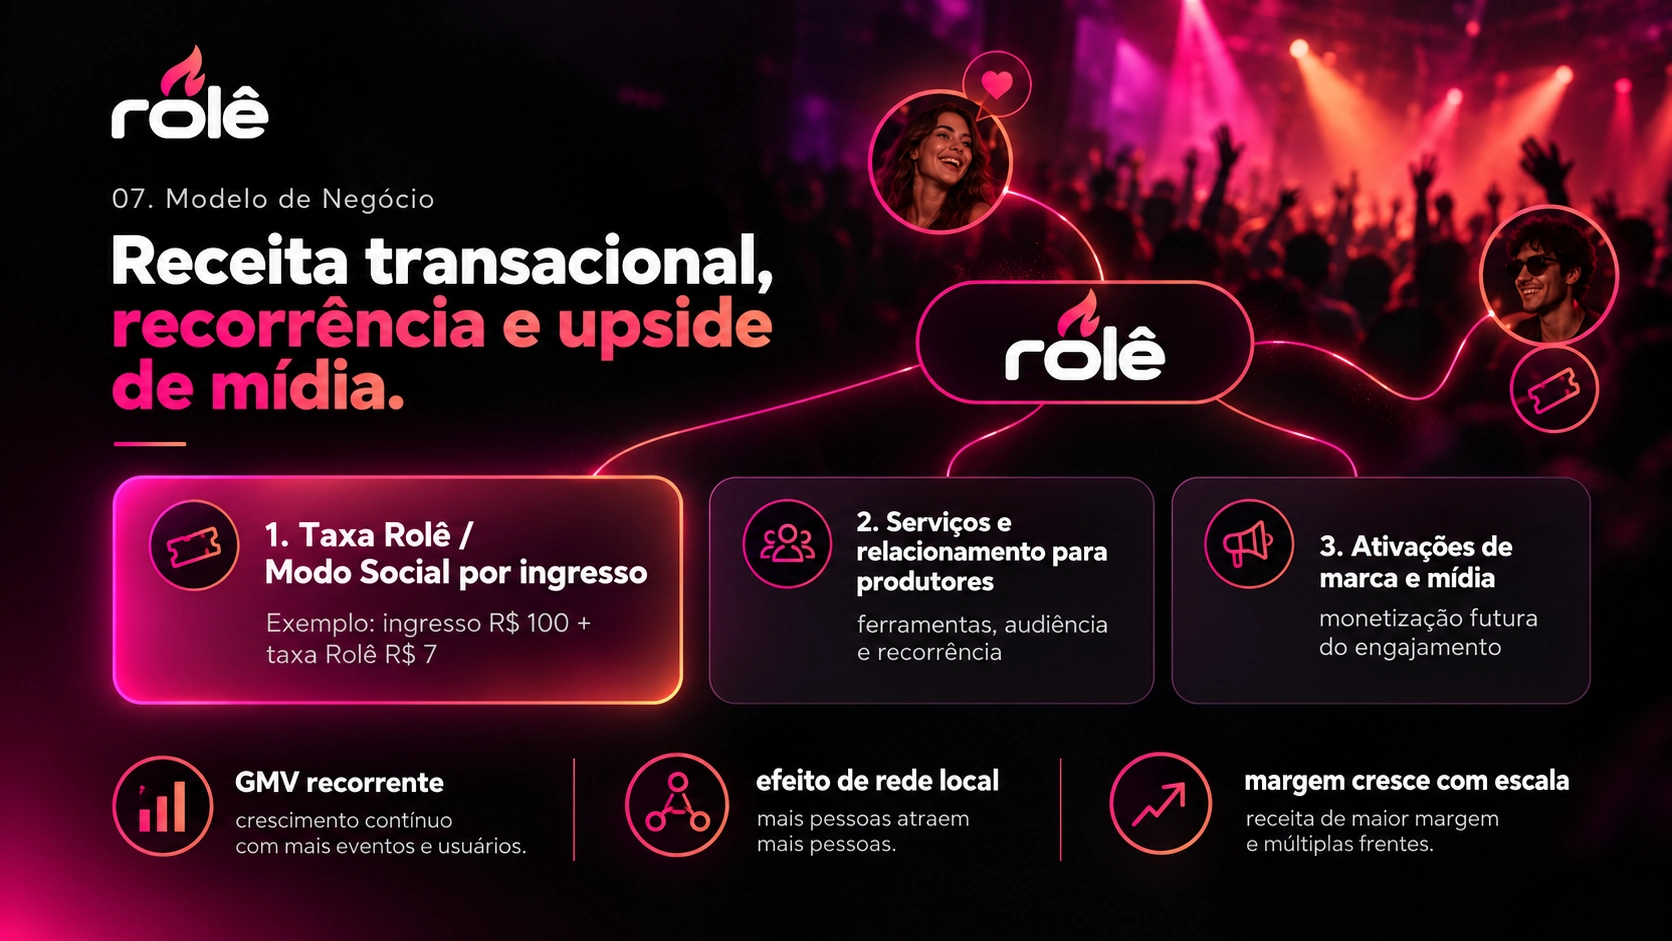
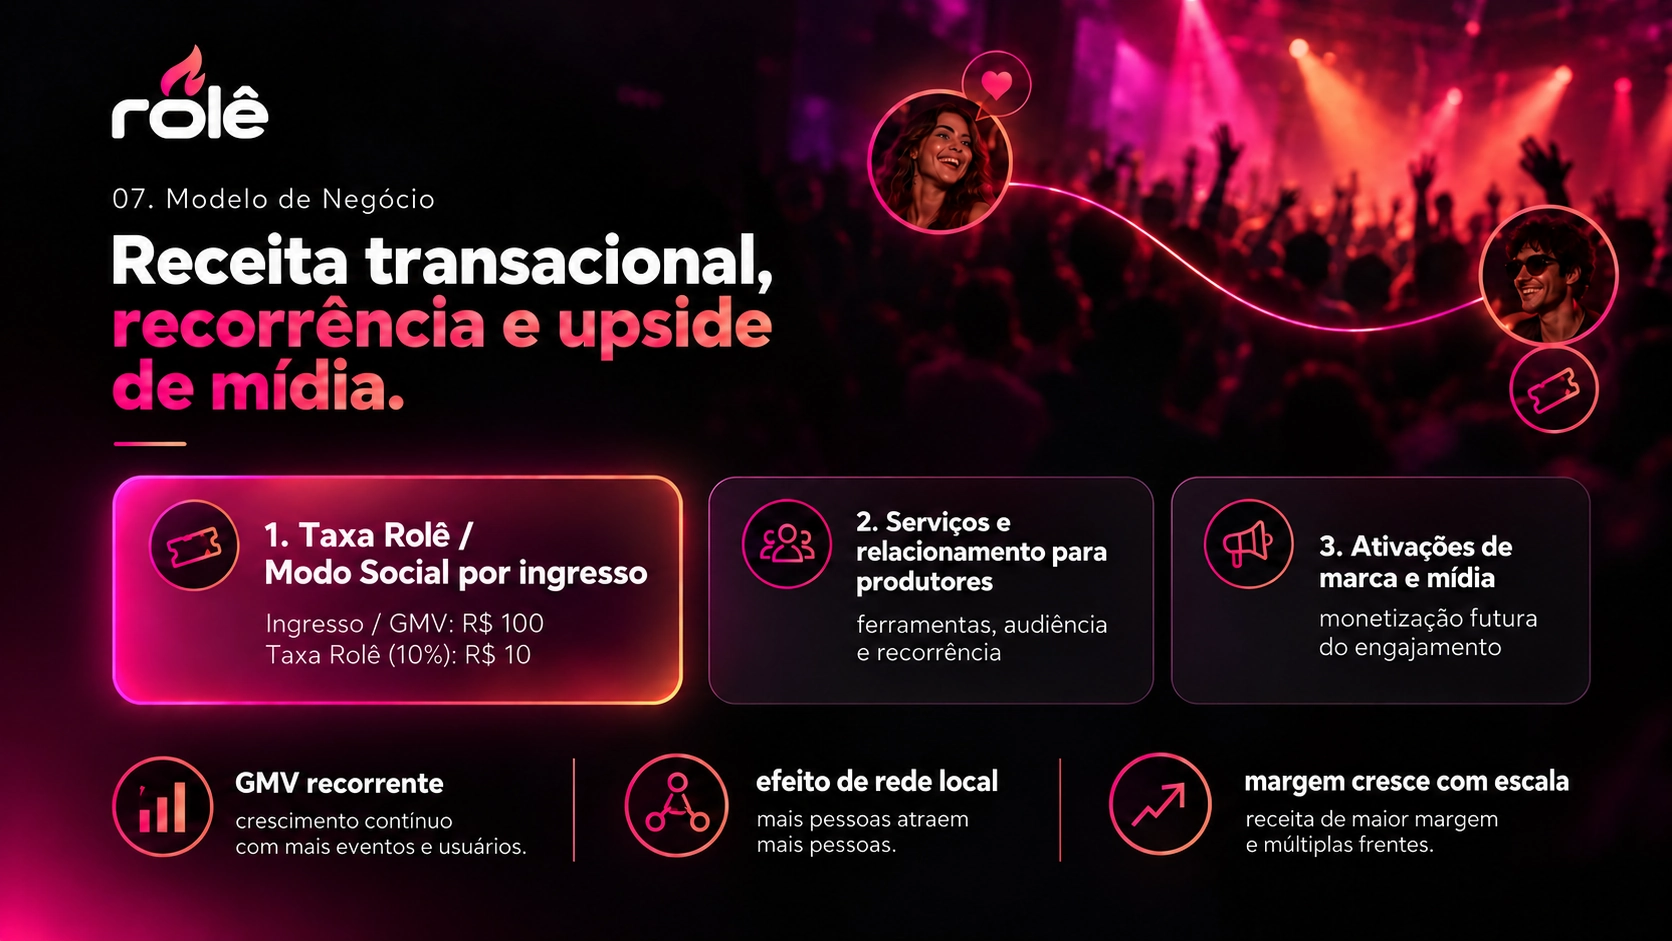
fix text pitch investiment

diff --git a/pitch/investment/finance-chart.js b/pitch/investment/finance-chart.js
@@ -1,0 +1,127 @@
+// Fonte: Role_Orcamento_18m_Growth_100_Hosts.xlsx, Caixa Rolê!A1:N19.
+// Despesas operacionais = Receita Rolê (coluna C) - EBITDA antes de CAPEX (coluna N).
+const projection = [
+  { month: 'Jan/27', revenue: 1564, ebitda: -27466.8608015169 },
+  { month: 'Fev/27', revenue: 3236.8, ebitda: -26841.1401698876 },
+  { month: 'Mar/27', revenue: 5854.8, ebitda: -26427.7756685998 },
+  { month: 'Abr/27', revenue: 7772.4, ebitda: -33873.896282217 },
+  { month: 'Mai/27', revenue: 11580.4, ebitda: -42730.5374772148 },
+  { month: 'Jun/27', revenue: 17442, ebitda: -29684.1754642225 },
+  { month: 'Jul/27', revenue: 25520.4, ebitda: -52618.0973124745 },
+  { month: 'Ago/27', revenue: 35006.4, ebitda: -36610.055470022 },
+  { month: 'Set/27', revenue: 47980.8, ebitda: -42721.6597171115 },
+  { month: 'Out/27', revenue: 62634.8, ebitda: -30937.2513255846 },
+  { month: 'Nov/27', revenue: 82212, ebitda: -32758.8707949203 },
+  { month: 'Dez/27', revenue: 103795.2, ebitda: -3795.0635316303 },
+  { month: 'Jan/28', revenue: 128574.4, ebitda: -23237.9960786632 },
+  { month: 'Fev/28', revenue: 155577.2, ebitda: 14868.9289184336 },
+  { month: 'Mar/28', revenue: 183722.4, ebitda: 18813.9482381885 },
+  { month: 'Abr/28', revenue: 210630, ebitda: 28132.9769873277 },
+  { month: 'Mai/28', revenue: 238571.2, ebitda: 46951.8766126127 },
+  { month: 'Jun/28', revenue: 270034.8, ebitda: 72163.8348592263 },
+];
+
+const COLORS = {
+  background: '#0b0d0e',
+  border: '#25282a',
+  grid: '#292d30',
+  text: '#f5f3f5',
+  muted: '#b8b6ba',
+  revenue: '#ff3185',
+  expenses: '#505356',
+  ebitda: '#ff8958',
+};
+
+const formatMil = value => new Intl.NumberFormat('pt-BR', {
+  maximumFractionDigits: 0,
+}).format(value);
+
+export function renderFinanceChart(target) {
+  if (!target) return;
+
+  const plot = { left: 90, right: 960, top: 465, bottom: 579 };
+  const minimum = -60;
+  const maximum = 300;
+  const y = value => plot.bottom - ((value - minimum) / (maximum - minimum)) * (plot.bottom - plot.top);
+  const step = (plot.right - plot.left) / projection.length;
+  const x = index => plot.left + step * (index + 0.5);
+  const zero = y(0);
+  const ticks = [-50, 0, 100, 200, 300];
+
+  const grid = ticks.map(value => {
+    const lineY = y(value);
+    const stroke = value === 0 ? '#7d8184' : COLORS.grid;
+    const width = value === 0 ? 1.15 : 0.8;
+    return `<g>
+      <line x1="${plot.left}" y1="${lineY}" x2="${plot.right}" y2="${lineY}" stroke="${stroke}" stroke-width="${width}" />
+      <text x="78" y="${lineY + 3.5}" text-anchor="end" class="axis-label">${value}</text>
+    </g>`;
+  }).join('');
+
+  const bars = projection.map((point, index) => {
+    const center = x(index);
+    const revenue = point.revenue / 1000;
+    const expenses = (point.revenue - point.ebitda) / 1000;
+    const revenueTop = y(revenue);
+    const expenseTop = y(expenses);
+    const highlighted = point.month === 'Fev/28';
+    return `<g>
+      <rect x="${center - 10}" y="${revenueTop}" width="9" height="${Math.max(1, zero - revenueTop)}" rx="1.5" fill="${COLORS.revenue}" />
+      <rect x="${center + 1}" y="${expenseTop}" width="9" height="${Math.max(1, zero - expenseTop)}" rx="1.5" fill="${COLORS.expenses}" />
+      <text x="${center}" y="626" text-anchor="middle" class="month-label${highlighted ? ' month-label--breakeven' : ''}">${point.month}</text>
+    </g>`;
+  }).join('');
+
+  const path = projection.map((point, index) => `${index === 0 ? 'M' : 'L'} ${x(index)} ${y(point.ebitda / 1000)}`).join(' ');
+  const points = projection.map((point, index) => {
+    const isBreakeven = point.month === 'Fev/28';
+    return `<circle cx="${x(index)}" cy="${y(point.ebitda / 1000)}" r="${isBreakeven ? 4.1 : 3.3}" fill="${isBreakeven ? COLORS.ebitda : '#ffe3d3'}" stroke="${COLORS.ebitda}" stroke-width="2" />`;
+  }).join('');
+  const last = projection.at(-1);
+
+  target.innerHTML = `<svg viewBox="0 0 1018 768" role="img" aria-labelledby="finance-chart-title finance-chart-description" xmlns="http://www.w3.org/2000/svg">
+    <title id="finance-chart-title">Evolução mensal de receita, despesas operacionais e EBITDA</title>
+    <desc id="finance-chart-description">De janeiro de 2027 a junho de 2028, a receita ultrapassa as despesas operacionais em fevereiro de 2028. O EBITDA passa de menos 23,2 mil reais em janeiro de 2028 para mais 14,9 mil em fevereiro, e chega a 72,2 mil em junho de 2028.</desc>
+    <defs>
+      <linearGradient id="finance-card-fill" x1="0" y1="0" x2="1" y2="1">
+        <stop offset="0" stop-color="#0b0e0f" />
+        <stop offset="1" stop-color="#111012" />
+      </linearGradient>
+    </defs>
+    <rect x="35" y="406" width="951" height="247" rx="15" fill="url(#finance-card-fill)" stroke="${COLORS.border}" />
+
+    <text x="56" y="434" class="chart-heading">EVOLUÇÃO MENSAL (R$ mil)</text>
+    <g class="legend">
+      <rect x="383" y="426" width="16" height="9" rx="3" fill="${COLORS.revenue}" />
+      <text x="408" y="434">Receita Rolê</text>
+      <rect x="497" y="426" width="16" height="9" rx="3" fill="${COLORS.expenses}" />
+      <text x="522" y="434">Despesas operacionais</text>
+      <path d="M 672 430.5 h 15" fill="none" stroke="${COLORS.ebitda}" stroke-width="3.5" stroke-linecap="round" />
+      <circle cx="679.5" cy="430.5" r="3" fill="${COLORS.ebitda}" />
+      <text x="699" y="434">EBITDA</text>
+    </g>
+
+    ${grid}
+    ${bars}
+    <path d="${path}" fill="none" stroke="${COLORS.ebitda}" stroke-width="3.5" stroke-linejoin="round" stroke-linecap="round" />
+    ${points}
+
+    <g aria-hidden="true">
+      <rect x="863" y="417" width="111" height="43" rx="8" fill="#100d12" stroke="#8e2855" />
+      <text x="918.5" y="435" text-anchor="middle" class="callout-value">R$ ${formatMil(last.revenue / 1000)} mil</text>
+      <text x="918.5" y="451" text-anchor="middle" class="callout-label">receita/mês</text>
+      <path d="M 934 460 L 946 460 L 940 467 Z" fill="#100d12" stroke="#8e2855" stroke-linejoin="round" />
+    </g>
+
+    <style>
+      text { font-family: Inter, ui-sans-serif, system-ui, -apple-system, BlinkMacSystemFont, "Segoe UI", sans-serif; }
+      .chart-heading { fill: ${COLORS.text}; font-size: 13px; font-weight: 700; letter-spacing: 2.6px; }
+      .legend { fill: ${COLORS.text}; font-size: 10px; font-weight: 500; }
+      .axis-label { fill: ${COLORS.muted}; font-size: 10px; font-variant-numeric: tabular-nums; }
+      .month-label { fill: ${COLORS.text}; font-size: 9.3px; font-weight: 450; font-variant-numeric: tabular-nums; }
+      .month-label--breakeven { fill: ${COLORS.revenue}; font-size: 9.6px; font-weight: 750; }
+      .callout-value { fill: ${COLORS.revenue}; font-size: 14px; font-weight: 750; }
+      .callout-label { fill: #ffabc7; font-size: 10.5px; font-weight: 550; }
+    </style>
+  </svg>`;
+}

diff --git a/pitch/investment/index.html b/pitch/investment/index.html
@@ -52,13 +52,13 @@
 
     <section class="slide" id="slide-7" data-slide="7" aria-roledescription="slide" aria-label="7 de 12: Modelo de negócio" aria-hidden="true" inert>
       <div class="slide-canvas" style="--slide-ratio: 1.776833">
-        <img class="reference-art" src="./assets/slide-07.webp" alt="Receita transacional por ingresso, serviços para produtores e ativações de marca." width="1672" height="941" loading="lazy" decoding="async" draggable="false" />
+        <img class="reference-art" src="./assets/slide-07.webp" alt="Taxa Rolê de 10% sobre o GMV do ingresso: em um ingresso de R$ 100, a taxa é R$ 10. O slide também apresenta serviços para produtores e ativações de marca." width="1672" height="941" loading="lazy" decoding="async" draggable="false" />
       </div>
     </section>
 
     <section class="slide" id="slide-8" data-slide="8" aria-roledescription="slide" aria-label="8 de 12: Competição" aria-hidden="true" inert>
       <div class="slide-canvas" style="--slide-ratio: 1.776833">
-        <img class="reference-art" src="./assets/slide-08.webp" alt="Comparativo de ticketing, descoberta social, público confirmado, matches e ferramentas para produtores." width="1672" height="941" loading="lazy" decoding="async" draggable="false" />
+        <img class="reference-art" src="./assets/slide-08.webp" alt="Comparativo de ticketing, descoberta social, público confirmado, matches e ferramentas para hosts. Rolê, Sympla, Zig e Ingresse oferecem ferramentas para hosts." width="1672" height="941" loading="lazy" decoding="async" draggable="false" />
       </div>
     </section>
 
@@ -70,18 +70,21 @@
 
     <section class="slide" id="slide-10" data-slide="10" aria-roledescription="slide" aria-label="10 de 12: Equipe" aria-hidden="true" inert>
       <div class="slide-canvas" style="--slide-ratio: 1.776833">
-        <img class="reference-art" src="./assets/slide-10.webp" alt="Apresentação dos fundadores e suas experiências em produto, tecnologia e mercado." width="1672" height="941" loading="lazy" decoding="async" draggable="false" />
+        <img class="reference-art" src="./assets/slide-10.webp" alt="Apresentação dos fundadores. Marcos Barreto foi VP da Associação Baiana de Startups em 2023 e 2024; Jaevillen Oliveira é CTO." width="1672" height="941" loading="lazy" decoding="async" draggable="false" />
       </div>
     </section>
 
     <section class="slide" id="slide-11" data-slide="11" aria-roledescription="slide" aria-label="11 de 12: Projeções financeiras" aria-hidden="true" inert>
-      <div class="slide-canvas" style="--slide-ratio: 1.325521">
-        <img class="reference-art" src="./assets/slide-11.webp" alt="Projeções de 18 meses: GMV de R$ 24,6 milhões, receita de R$ 3,7 milhões, break-even em fevereiro de 2028 e caixa final de R$ 254 mil." width="1018" height="768" loading="lazy" decoding="async" draggable="false" />
+      <div class="slide-canvas slide-canvas-portrait-art" style="--slide-ratio: 1.777778">
+        <div class="slide-11-art">
+          <img class="reference-art" src="./assets/slide-11.webp" alt="Composição visual do slide com projeções financeiras para 18 meses." width="1018" height="768" loading="lazy" decoding="async" draggable="false" />
+          <div class="finance-chart-host" data-finance-chart></div>
+        </div>
       </div>
     </section>
 
     <section class="slide" id="slide-12" data-slide="12" aria-roledescription="slide" aria-label="12 de 12: O pedido" aria-hidden="true" inert>
-      <div class="slide-canvas" style="--slide-ratio: 1.325521">
+      <div class="slide-canvas slide-canvas-portrait-art" style="--slide-ratio: 1.777778">
         <img class="reference-art" src="./assets/slide-12.webp" alt="Captação de R$ 450 mil por 15% de equity, com alocação do capital e marcos para os próximos 18 meses." width="1018" height="768" loading="lazy" decoding="async" draggable="false" />
       </div>
     </section>

diff --git a/pitch/investment/pitch.css b/pitch/investment/pitch.css
@@ -48,6 +48,35 @@ button { font: inherit; }
   background: #050407;
 }
 .reference-art { display: block; width: 100%; height: 100%; object-fit: contain; object-position: center; }
+.slide-canvas-portrait-art {
+  display: grid;
+  place-items: center;
+  background: linear-gradient(90deg, #030708 0%, #080a0b 67%, #140a0e 100%);
+}
+#slide-11 .reference-art, #slide-12 .reference-art {
+  width: auto;
+  height: 100%;
+  max-width: 100%;
+}
+#slide-11 .slide-11-art {
+  position: relative;
+  width: auto;
+  height: 100%;
+  max-width: 100%;
+  aspect-ratio: 1018 / 768;
+}
+#slide-11 .slide-11-art .reference-art { width: 100%; }
+.finance-chart-host {
+  position: absolute;
+  inset: 0;
+  pointer-events: none;
+}
+.finance-chart-host svg { display: block; width: 100%; height: 100%; }
+#slide-12 .slide-canvas-portrait-art {
+  background:
+    radial-gradient(ellipse at 76% 8%, rgb(83 12 36 / 30%), transparent 48%),
+    linear-gradient(90deg, #030809 0%, #080a0b 64%, #18090d 100%);
+}
 
 .deck-controls {
   position: fixed;

diff --git a/pitch/investment/pitch.js b/pitch/investment/pitch.js
@@ -1,3 +1,5 @@
+import { renderFinanceChart } from './finance-chart.js';
+
 const slides = [...document.querySelectorAll('[data-slide]')];
 const pageButtons = [...document.querySelectorAll('[data-go]')];
 const previousButton = document.querySelector('[data-previous]');
@@ -7,6 +9,8 @@ const progress = document.querySelector('.deck-progress');
 const progressFill = document.querySelector('[data-progress-fill]');
 let current = 0;
 let pointerStart = null;
+
+renderFinanceChart(document.querySelector('[data-finance-chart]'));
 
 function showSlide(index, { updateHash = true } = {}) {
   current = Math.max(0, Math.min(slides.length - 1, index));

diff --git a/design-qa.md b/design-qa.md
@@ -31,8 +31,13 @@
 
 **Regressão corrigida**
 
-- Os slides 1–10 agora exibem cada composição de referência completa, sem recortar os mockups, redesenhar seus textos ou sobrepor elementos HTML.
-- Os slides 11 e 12 usam os dois painéis completos da referência financeira mais recente. O arquivo composto foi separado somente no divisor central.
+- Os slides 1–10 exibem as composições completas; no slide 7, atualizei apenas o exemplo da taxa conforme a nova regra de GMV.
+- O exemplo do slide 7 informa “Ingresso / GMV: R$ 100” e “Taxa Rolê (10%): R$ 10”.
+- No slide 7, removi o hub oval, o logo nele e suas conexões aos cards e retratos; uma linha curva agora liga diretamente os retratos do homem e da mulher.
+- No slide 8, a linha “Ferramentas para hosts” marca Rolê, Sympla, Zig e Ingresse como disponíveis.
+- No slide 10, corrigi o período da vice-presidência na Associação Baiana de Startups para 2023–2024.
+- Os slides 11 e 12 usam canvas 16:9. Cada painel de referência continua inteiro e centralizado; as faixas laterais usam fundo escuro em degradê para preservar a arte 4:3 sem esticar nem cortar seu conteúdo.
+- No slide 11, redesenhei o gráfico com os valores mensais de `Caixa Rolê!A1:N19`. Receita e despesas se cruzam em fev/28; a série exibida vai de jan/27 a jun/28.
 - Os controles continuam fora da área dos slides; navegação e numeração permanecem disponíveis.
 
 | Slide | Composição revisada |
@@ -53,9 +58,11 @@
 **Verificação visual e funcional**
 
 - Comparação lado a lado de referência e captura final para os 12 slides em `/tmp/role-pitch-qa/compare-1.png` até `compare-4.png`.
-- Chromium local em desktop de 1672 × 941 px: slides 1–10 preservam a proporção de 1672 × 941; slides 11–12 preservam 1018 × 768. Cada imagem preenche o canvas sem recorte.
-- Chromium local em celular de 390 × 844 px: 12 slides navegáveis, sem rolagem horizontal; as imagens mantêm suas proporções e os controles ficam acessíveis.
+- Chromium local em desktop de 1672 × 941 px: os canvases dos slides 11 e 12 medem 1473 × 829 CSS px (16:9); as imagens originais de 1018 × 768 ficam inteiras, centradas e sem recorte.
+- Chromium local em celular de 390 × 844 px: 12 slides navegáveis, sem rolagem horizontal; os canvases dos slides 11 e 12 mantêm 16:9 e os controles ficam acessíveis.
 - Navegação anterior/próximo, botões numerados, teclas Home/ArrowRight/End e gesto horizontal foram verificados. As 12 imagens carregaram e não houve erros de console.
+- Após a atualização da taxa, confirmei o texto na captura do slide 7 e carreguei o novo WebP no navegador.
+- No Chromium desktop, confirmei o gráfico atualizado em `/tmp/role-pitch-qa/finance-slide-11.png`; rota HTTP 200, sem erros de console.
 - `npm run build`: aprovado.
 
-**final result: passed** — as 12 composições correspondem às referências integrais e a navegação segue funcionando em desktop e celular.
+**final result: passed** — as 12 composições e a navegação foram verificadas; o gráfico financeiro do slide 11 agora reflete a planilha indicada.

diff --git a/pitch/investment/README.md b/pitch/investment/README.md
@@ -4,9 +4,11 @@ Unlisted presentation route: `/pitch/investment`.
 
 The route is not authenticated. `noindex` discourages indexing, but anyone with the URL can open it; do not add confidential information without access protection.
 
-- The 12 slides use the complete approved reference compositions in `assets/slide-01.webp` through `assets/slide-12.webp`. Slides 11 and 12 are the two complete panels in the latest supplied reference, separated only at its center divider.
-- The source composition is kept as a single image per slide so text, scale, crop, and graphic placement remain faithful to the approved references.
+- The 12 slides use the complete approved reference compositions in `assets/slide-01.webp` through `assets/slide-12.webp`. Slides 11 and 12 are the two complete panels in the latest supplied reference, separated only at its center divider. Their 4:3 artwork is centered on a 16:9 canvas with color-matched side backgrounds, without stretching or cropping the content.
+- Slides use their full approved reference compositions. On slide 11, the chart area is redrawn as an accessible SVG from the monthly figures in `Role_Orcamento_18m_Growth_100_Hosts.xlsx` (`Caixa Rolê!A1:N19`); the rest of the reference art remains intact.
+- Slide 10 states that Marcos Barreto was VP of the Associação Baiana de Startups in 2023 and 2024.
+- Slide 7 shows the fee against GMV: ticket/GMV of R$ 100 and a 10% Rolê fee of R$ 10. Its social connection line now links the two attendee portraits directly.
 - The Vite entry is registered in the site's multi-page build; Vercel rewrites the path to its static HTML.
 - The page sets `noindex` metadata and a matching `X-Robots-Tag`; it is not linked from public navigation or included in the sitemap.
 - Use the bottom controls, slide numbers, arrow keys, Page Up/Down, Home/End, touch swipes, or `F` for fullscreen. The PDF action opens the browser print dialog.
-- Financial and market figures are shown exactly as supplied in the pitch references. Treat projections as management estimates and validate the underlying model and source methodology before external circulation.
+- Financial and market figures are management estimates. The slide 11 chart follows the spreadsheet's Jan/2027–Jun/2028 monthly series; validate the other headline metrics and the underlying model before external circulation.
